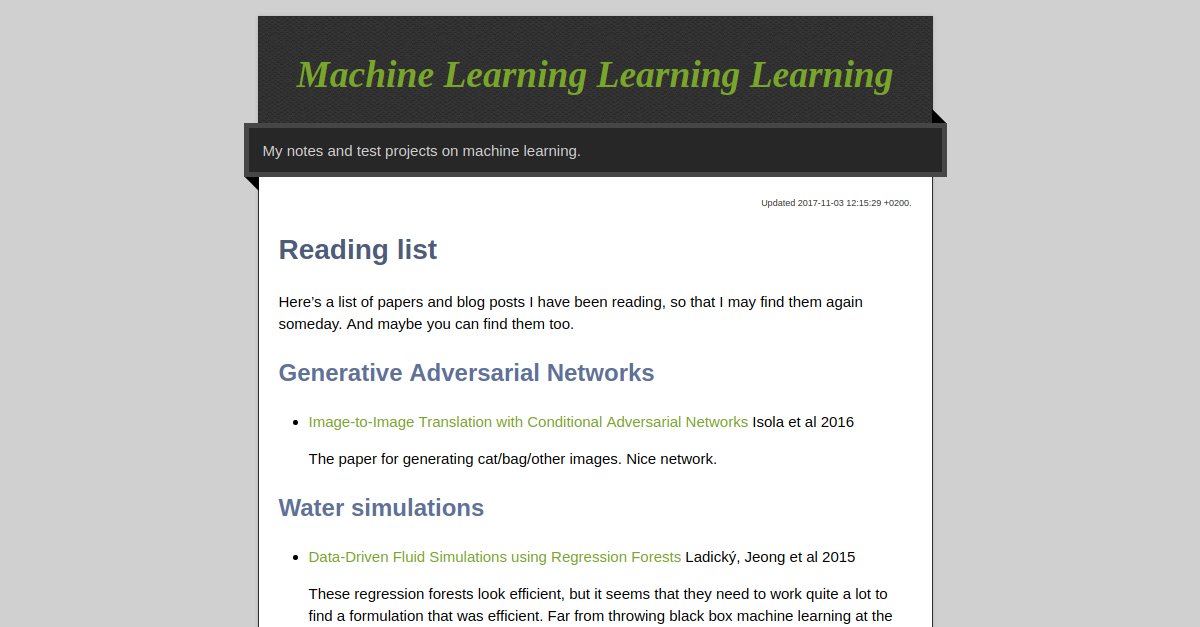
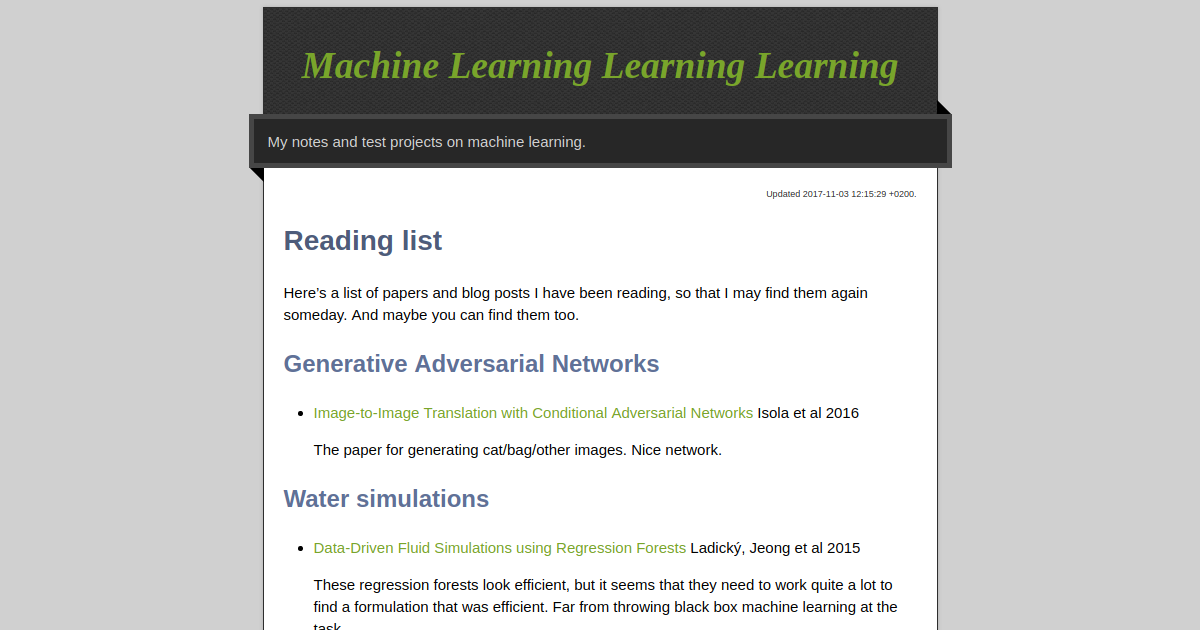
Trying to fix og:image

Changed region(s): [[0.185, 0.0, 0.8017, 1.0]]

diff --git a/_layouts/default.html b/_layouts/default.html
@@ -15,7 +15,6 @@
 
   <meta name="viewport" content="width=device-width,initial-scale=1">
 
-  <meta property="og:image" content="https://jaakkotuosa.github.io/assets/images/screenshot.png">
   <link rel="icon" href="https://github.com/jaakkotuosa.png">
 </head>
 

diff --git a/index.md b/index.md
@@ -3,6 +3,7 @@
 # Edit theme's home layout instead if you wanna make some changes
 # See: https://jekyllrb.com/docs/themes/#overriding-theme-defaults
 layout: home
+image: "https://jaakkotuosa.github.io/assets/images/screenshot.png"
 ---
 
 <h3>Entries</h3>
